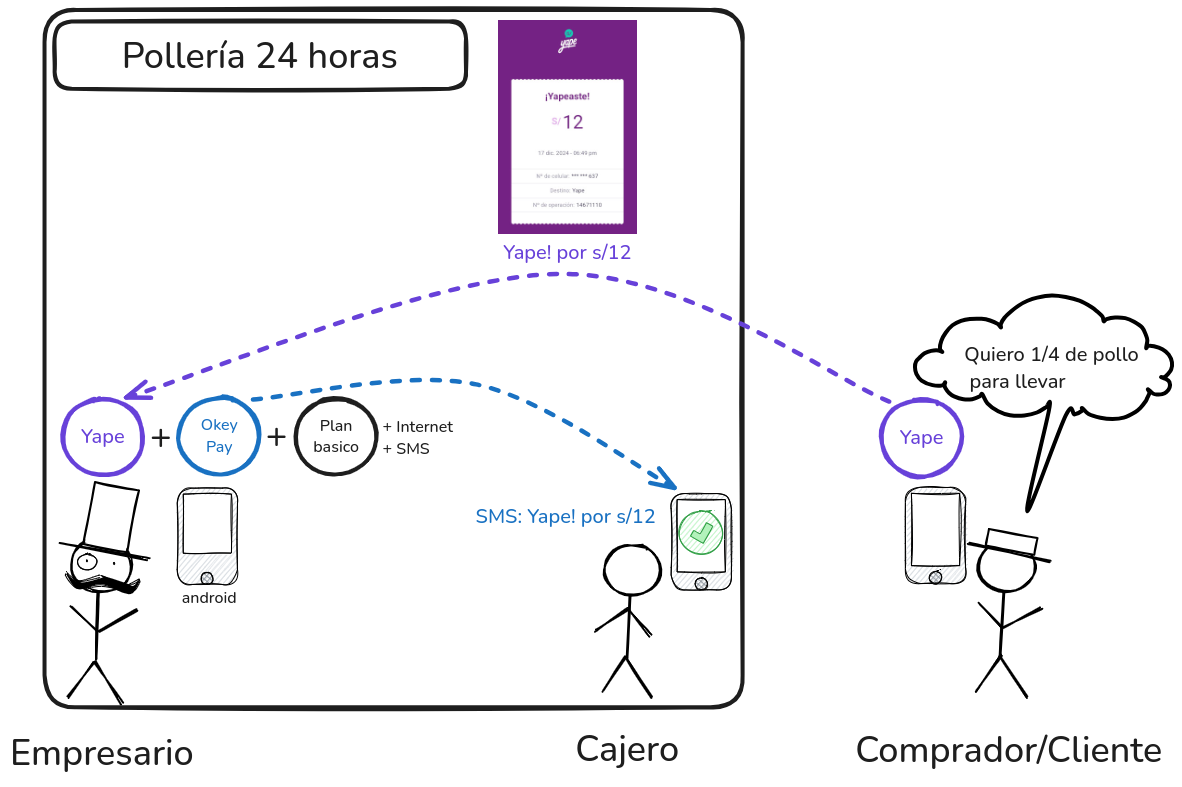
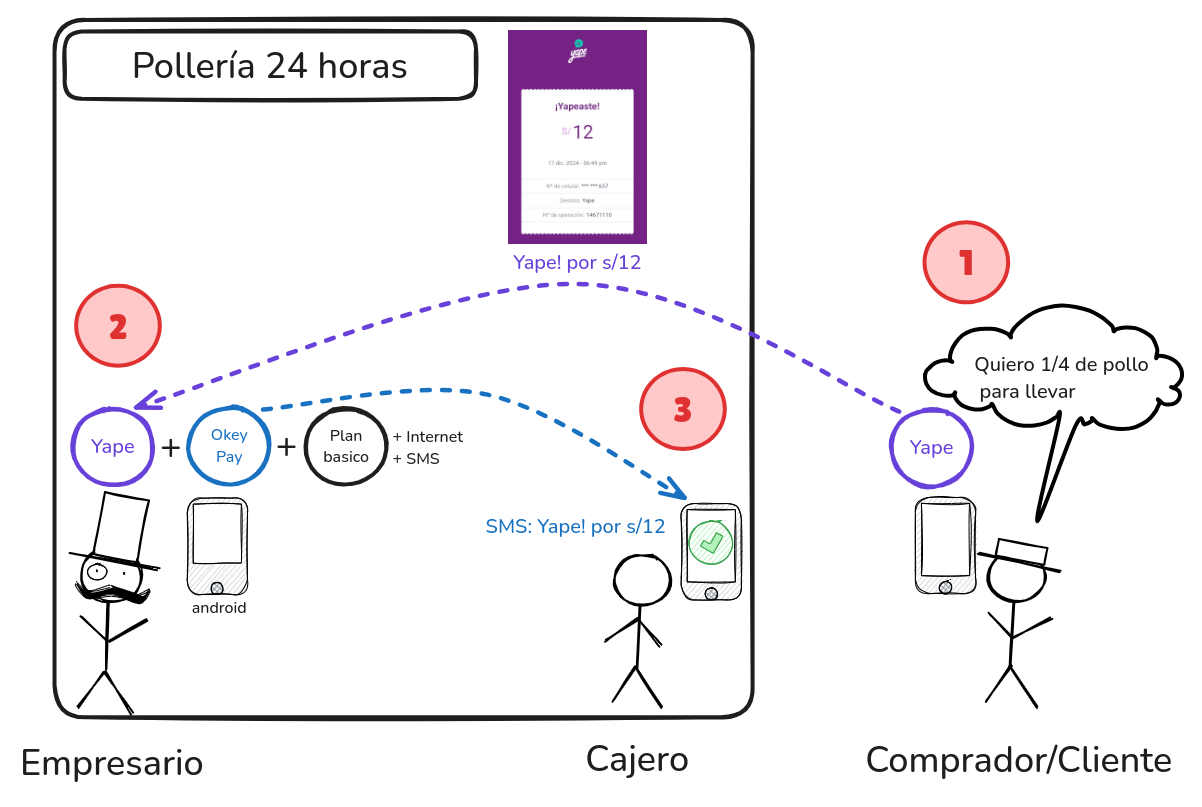
update: adding the button googleplay and improve image and flags

diff --git a/docs/index.html b/docs/index.html
@@ -36,7 +36,7 @@
                 <div class="container">
                     <div class="hero-inner">
 						<div class="hero-copy">
-	                        <h1 class="hero-title mt-0">OkeyPay - Verifica pagos Yape 🇵🇪</h1>
+	                        <h1 class="hero-title mt-0">OkeyPay - Verifica pagos Yape 🇵🇪 🇧🇴 🇨🇴</h1>
 	                        <p class="hero-paragraph">¿Te cansaste de revisar cada pago en Yape manualmente? ¡OkeyPay lo hace por ti!<br/>
                                 <!-- <span style="font-size: 12px; font-weight: bold;">¿Te cansaste de revisar cada pago en Yape manualmente? ¡OkeyPay lo hace por ti!</span> -->
                             </p>
@@ -45,7 +45,14 @@
                             <div class="hero-cta">
                                 <a class="button button-whatsapp" href="apk/OkeyPay.apk">Descargar OkeyPay para Android (.APK)</a>
                                 <!-- <a class="button button-whatsapp" href="https://wa.me/51970142637">¡Contactar por WhatsApp!</a> -->
+                                
+                                <a class="button" style="height: auto;padding: 16px 0px;"
+                                    href="https://play.google.com/store/apps/details?id=com.anibalcopitan.okeypay">
+                                    <img src="dist/images/get-it-on-google-play-spanish.png" alt="Google Play" 
+                                        style="max-height: 50px; height: auto; width: auto; max-width: 100%;"/>
+                                    </a>
                             </div>
+
 						</div>
 						<div class="hero-figure anime-element">
 							<div class="feature-icon">
@@ -160,7 +167,7 @@
                             <p class="section-paragraph mb-0"><b>Proteje tu negocio de falsos pagos!</b>. Elige el plan que mejor encaje con tus requerimientos.</p>
                         </div>
 						<div class="pricing-tables-wrap">
-                           
+                           <!--
                             <div class="pricing-table">
                                 <div class="pricing-table-inner is-revealing">
                                     <div class="pricing-table-main">
@@ -193,7 +200,7 @@
                                         <a class="button button-primary button-shadow button-block" href="apk/OkeyPay.apk">Descargar App</a>
                                     </div>
                                 </div>
-                            </div>
+                            </div>-->
 
                             <div class="pricing-table">
                                 <div class="pricing-table-inner is-revealing">
@@ -420,15 +427,16 @@
 
                     <h4>¿Puedo instalarla en un iPhone?</h4>
                     <p class="text-sm">
-                       Actualmente, está disponible solo para dispositivos Android con versión 8.0 o superior.
+                       Exclusivo para Android 5.0 o superior.
                     </p>
-
+<!--
                     <h4>¿Por qué no está en Google Play?</h4>
                     <p class="text-sm">
                         No está en <b>Google Play</b> debido a las estrictas políticas de la plataforma, que prohíben compartir o manejar información financiera de terceros, como la de <b>YAPE</b>.
                         <br>
                         Si deseas más detalles, consulta nuestro <a href="https://blog.anibalcopitan.com/2024/11/when-google-play-says-no-lessons-from.html" target="_blank">sitio informativo con imágenes explicativas.</a>
                     </p>
+                -->
 
                   </div>
             </section>
